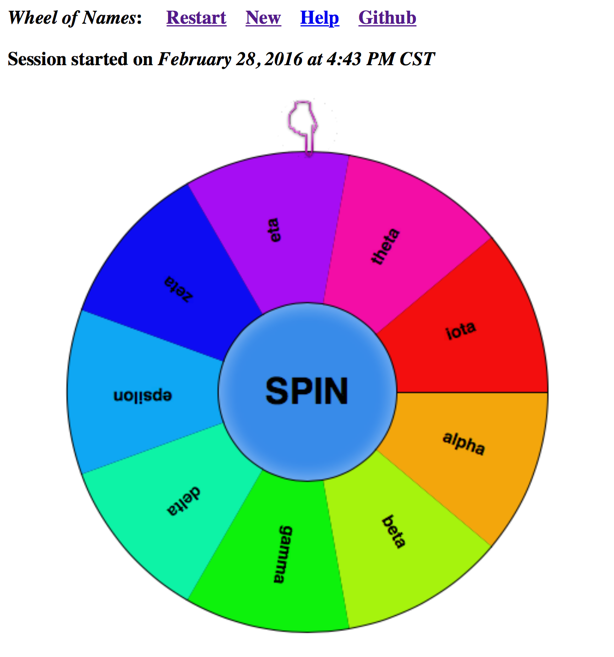
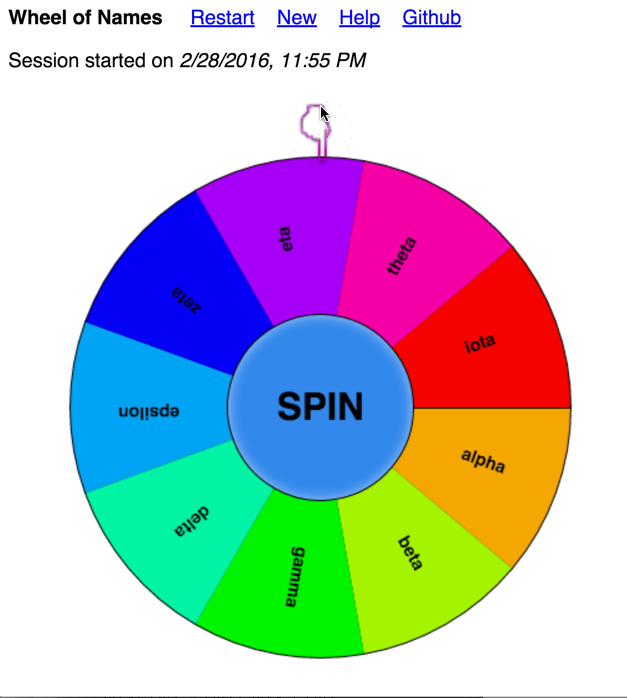
Minor fixes

diff --git a/www/help.html b/www/help.html
@@ -19,12 +19,13 @@ selected name from the list, clicking <em>Cancel</em> will retain the name.
 <p> <b>Setup</b>: To populate the list, simply link to this site using
 an URL of the form:
 <br> <tt><a
-href="http://pyintro.org/wheel/?session=web101&names=John+Smith;Jane+Doe;Gilgamesh">http://pyintro.org/wheel/?names=John+Smith;Jane+Doe;Gilgamesh</a></tt>
+href="http://pyintro.org/wheel/?session=math101&names=John+Smith;Jane+Doe;Gilgamesh">http://pyintro.org/wheel/?session=math101&names=John+Smith;Jane+Doe;Gilgamesh</a></tt>
 <br>with names separated by semicolons, with any spaces in the names
 replaced with plus (+) signs. The URL may be stored in a file and
 reused to restart a session. Alternatively, the list of
 semicolon-separated names may be entered manually via a dialog
-box. The optional <tt>session</tt> parameter enables multiple parallel
+box at <a href="http://pyintro.org/wheel">pyintro.org/wheel</a>.
+The optional <tt>session</tt> parameter enables multiple parallel
 sessions.  Another optional parameter <tt>max</tt> may be used to
 specify the maximum number of names displayed for the final cut
 (default: 30).

diff --git a/www/index.html b/www/index.html
@@ -279,19 +279,21 @@ function displayWheel() {
 $(document).ready( displayWheel );
 
 	</script>
-	<title></title>
+<style>
+body { font-family:helvetica,sans-serif }
+</style>
 </head>
 <body>
 
-     <b><em>Wheel of Names</em>: &nbsp;&nbsp;&nbsp;
+      <b>Wheel of Names</b> &nbsp;&nbsp;&nbsp;
       <a href="#" onclick="wheelRestart();">Restart</a>&nbsp;&nbsp;&nbsp;
       <a href="#" onclick="wheelClear();">New</a>&nbsp;&nbsp;&nbsp;
       <a href="help.html">Help</a>&nbsp;&nbsp;&nbsp;
       <a href="https://github.com/mitotic/WheelOfNames">Github</a>
-     </b>
+     
     <p>
-    <b id="header">Session <span id="sessionid"></span> started on <em id="sessiontime"></em>
-    </b>
+    <span id="header">Session <b id="sessionid"></b> started on <em id="sessiontime"></em>
+    </span>
     <h3><em id="sessionrange"></em>
     </h3>
     <p>
